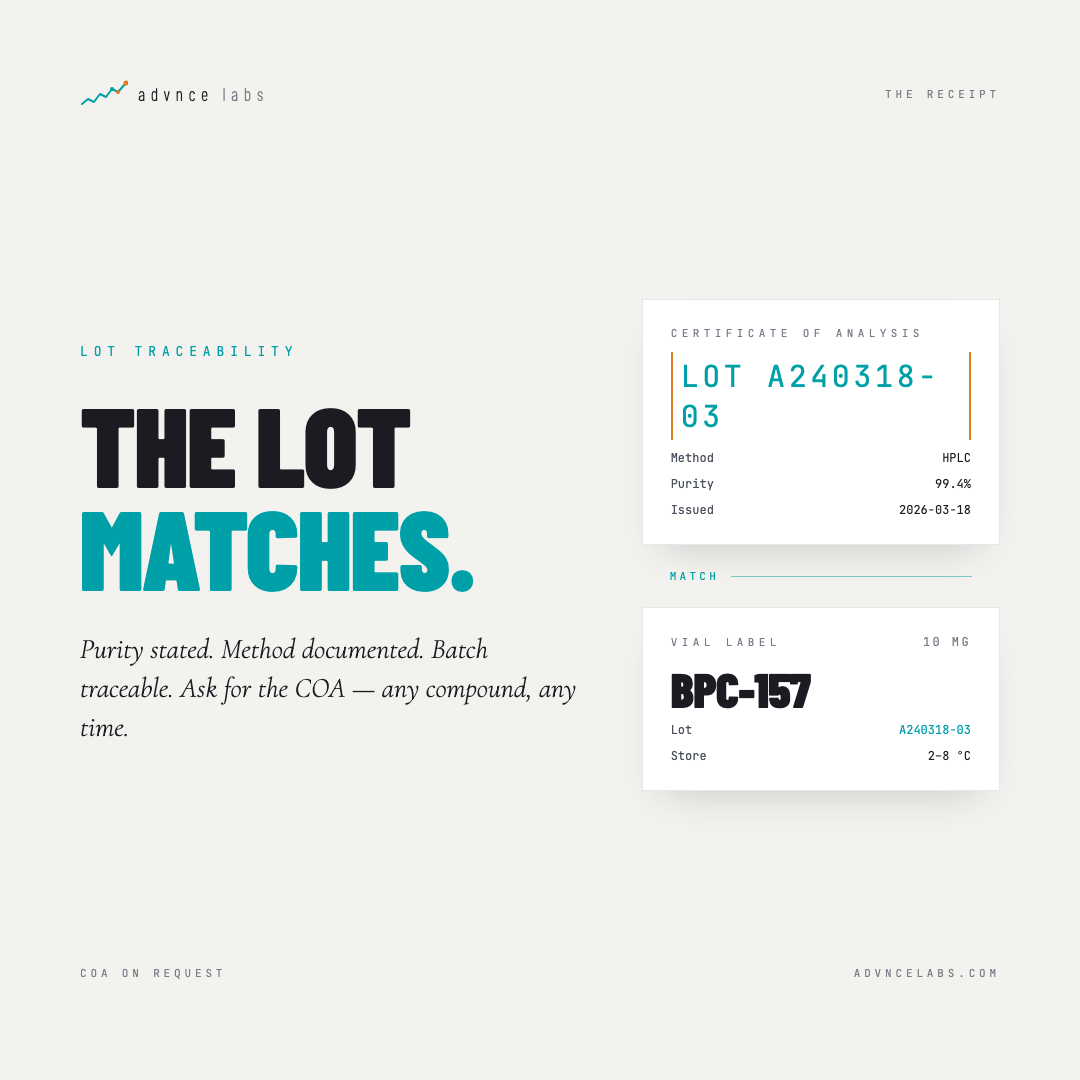
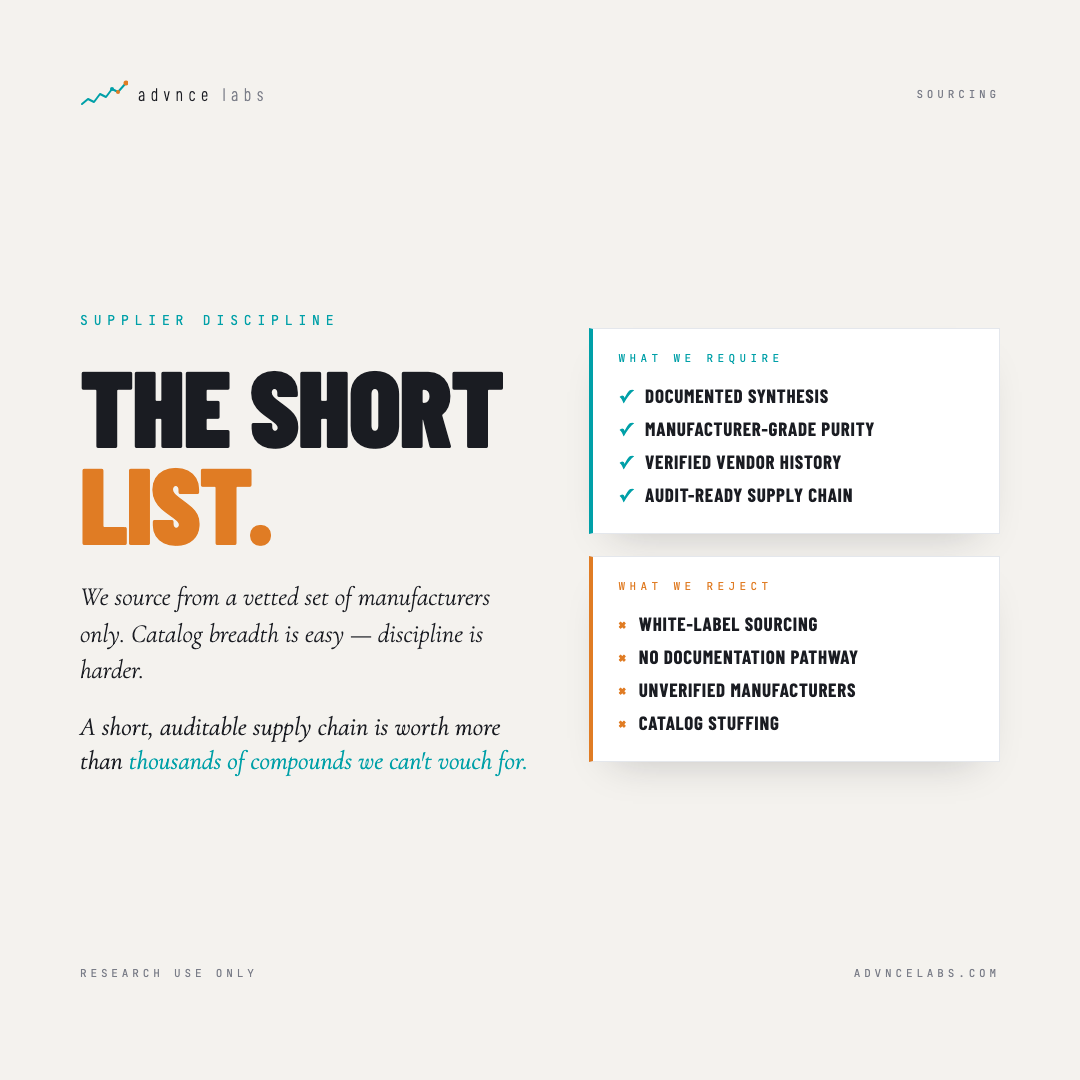
receipt_card: pivot to sourcing transparency (no fake lot/COA claims)
Old version showed a specific fictional lot (A240318-03) with HPLC purity
99.4% and a "vial label matches COA" pairing — content advnce labs cannot
deliver on (no lot numbers on actual labels). Credibility risk if anyone
asked for that specific lot.

Replaced with "THE SHORT LIST" — supplier-discipline framing. Two cards:
"What we require" (cyan, 4 checkmarks) and "What we reject" (amber, 4 ×).
No specific lot numbers, no specific purity %, no claims that don't match
what's actually shipped. RUO disclaimer remains.

Caption rewritten to match — sourcing philosophy, not fake lot match.

diff --git a/templates/social/receipt_card.html b/templates/social/receipt_card.html
@@ -3,7 +3,7 @@
 <head>
 <meta charset="UTF-8">
 <meta name="viewport" content="width=1080">
-<title>The Receipt — advnce labs</title>
+<title>Sourcing — advnce labs</title>
 <link rel="preconnect" href="https://fonts.googleapis.com">
 <link href="https://fonts.googleapis.com/css2?family=Barlow+Condensed:wght@300;400;700;900&family=Cormorant+Garamond:ital,wght@0,300;0,400;1,300;1,400&family=JetBrains+Mono:wght@400&display=swap" rel="stylesheet">
 <style>
@@ -42,8 +42,8 @@
   .content {
     flex: 1;
     display: grid;
-    grid-template-columns: 1.4fr 1fr;
-    gap: 60px;
+    grid-template-columns: 1.1fr 1fr;
+    gap: 56px;
     align-items: center;
     padding-top: 16px;
   }
@@ -54,116 +54,102 @@
     font-size: 13px; letter-spacing: 0.45em;
     color: #00A0A8;
     text-transform: uppercase;
-    margin-bottom: 32px;
+    margin-bottom: 28px;
   }
   .left .headline {
     font-family: 'Barlow Condensed', sans-serif;
     font-weight: 900;
-    font-size: 112px;
+    font-size: 108px;
     text-transform: uppercase;
     color: #1A1C22;
-    line-height: 0.92;
+    line-height: 0.9;
     letter-spacing: -0.015em;
-    margin-bottom: 32px;
+    margin-bottom: 28px;
   }
-  .left .headline .match { color: #00A0A8; }
+  .left .headline .accent { color: #E07C24; }
   .left .body {
     font-family: 'Cormorant Garamond', serif;
     font-weight: 300;
     font-style: italic;
-    font-size: 28px;
+    font-size: 26px;
     line-height: 1.4;
     color: #1A1C22;
-    max-width: 540px;
+    max-width: 480px;
+    margin-bottom: 22px;
+  }
+  .left .closer {
+    font-family: 'Cormorant Garamond', serif;
+    font-style: italic;
+    font-weight: 400;
+    font-size: 26px;
+    line-height: 1.3;
+    color: #1A1C22;
+    max-width: 500px;
+  }
+  .left .closer strong {
+    font-style: italic;
+    font-weight: 400;
+    color: #00A0A8;
   }
 
-  /* RIGHT: COA card + Vial card */
+  /* RIGHT: Two cards (Require / Reject) */
   .right {
     display: flex;
     flex-direction: column;
-    gap: 24px;
+    gap: 22px;
   }
   .card {
     background: #ffffff;
     border: 1px solid #E4E7EC;
-    padding: 26px 28px;
+    padding: 22px 26px 22px 26px;
     box-shadow: 0 20px 40px -24px rgba(26,28,34,0.25);
+    position: relative;
+  }
+  .card.require {
+    border-left: 4px solid #00A0A8;
+  }
+  .card.reject {
+    border-left: 4px solid #E07C24;
   }
   .card .label {
     font-family: 'JetBrains Mono', monospace;
     font-size: 11px; letter-spacing: 0.4em;
     color: #7A7D88;
     text-transform: uppercase;
-    margin-bottom: 12px;
+    margin-bottom: 14px;
   }
-  .card .big {
-    font-family: 'JetBrains Mono', monospace;
-    font-size: 30px;
-    letter-spacing: 0.12em;
-    color: #00A0A8;
-    font-weight: 400;
-    word-break: break-all;
-  }
-  .card .row {
+  .card.require .label { color: #00A0A8; }
+  .card.reject .label  { color: #E07C24; }
+  .card .item {
     display: flex;
-    justify-content: space-between;
     align-items: baseline;
-    margin-top: 10px;
-    font-family: 'JetBrains Mono', monospace;
-    font-size: 12px;
-    color: #4A4F5C;
-  }
-  .card .row strong {
+    gap: 12px;
+    padding: 5px 0;
+    font-family: 'Barlow Condensed', sans-serif;
+    font-size: 19px;
+    font-weight: 700;
+    text-transform: uppercase;
+    letter-spacing: 0.04em;
     color: #1A1C22;
-    font-weight: 400;
   }
-
-  .bracket {
-    position: relative;
-    display: inline-block;
-    padding: 4px 10px;
-  }
-  .bracket::before, .bracket::after {
-    content: '';
-    position: absolute;
-    top: 0; bottom: 0;
-    width: 2px; background: #E07C24;
-  }
-  .bracket::before { left: 0; }
-  .bracket::after  { right: 0; }
-
-  .vial-card .label-row {
-    display: flex; justify-content: space-between; align-items: center;
-    margin-bottom: 18px;
-  }
-  .vial-card .compound {
+  .card .mark {
+    flex: 0 0 auto;
     font-family: 'Barlow Condensed', sans-serif;
     font-weight: 900;
-    font-size: 48px;
-    text-transform: uppercase;
-    color: #1A1C22;
-    letter-spacing: -0.01em;
-    line-height: 0.9;
+    font-size: 18px;
+    line-height: 1;
   }
-  .vial-card .size {
-    font-family: 'JetBrains Mono', monospace;
-    font-size: 12px;
-    color: #7A7D88;
-    letter-spacing: 0.2em;
-    text-transform: uppercase;
-  }
-
-  .connector {
-    display: flex; align-items: center; gap: 12px;
-    padding: 0 28px;
-    font-family: 'JetBrains Mono', monospace;
-    font-size: 11px;
-    color: #00A0A8;
-    letter-spacing: 0.3em;
-    text-transform: uppercase;
-  }
-  .connector .line {
-    flex: 1; height: 1px; background: #00A0A8; opacity: 0.5;
+  .card.require .mark { color: #00A0A8; }
+  .card.reject  .mark { color: #E07C24; }
+  .card .gloss {
+    font-family: 'Cormorant Garamond', serif;
+    font-style: italic;
+    font-weight: 400;
+    font-size: 17px;
+    color: #4A4F5C;
+    text-transform: none;
+    letter-spacing: 0;
+    margin-left: 6px;
   }
 
   .footer-bar {
@@ -182,44 +168,38 @@
         <svg viewBox="0 0 48 28" fill="none"><path d="M2 24L8 19L14 22L20 14L26 17L32 9L38 12L46 3" stroke="#00A0A8" stroke-width="2" stroke-linejoin="round" stroke-linecap="round"/><circle cx="32" cy="9" r="2" fill="#00A0A8"/><circle cx="38" cy="12" r="2" fill="#E07C24"/><circle cx="46" cy="3" r="2.5" fill="#E07C24"/></svg>
         <span class="wordmark">advnce <em>labs</em></span>
       </div>
-      <span>THE RECEIPT</span>
+      <span>SOURCING</span>
     </div>
 
     <div class="content">
       <div class="left">
-        <div class="eyebrow">LOT TRACEABILITY</div>
-        <div class="headline">The lot <span class="match">matches.</span></div>
-        <div class="body">Purity stated. Method documented. Batch traceable. Ask for the COA &mdash; any compound, any time.</div>
+        <div class="eyebrow">SUPPLIER DISCIPLINE</div>
+        <div class="headline">The short<br/><span class="accent">list.</span></div>
+        <div class="body">We source from a vetted set of manufacturers only. Catalog breadth is easy &mdash; discipline is harder.</div>
+        <div class="closer">A short, auditable supply chain is worth more than <strong>thousands of compounds we can't vouch for.</strong></div>
       </div>
 
       <div class="right">
-        <div class="card">
-          <div class="label">CERTIFICATE OF ANALYSIS</div>
-          <div class="bracket"><div class="big">LOT A240318-03</div></div>
-          <div class="row"><span>Method</span><strong>HPLC</strong></div>
-          <div class="row"><span>Purity</span><strong>99.4%</strong></div>
-          <div class="row"><span>Issued</span><strong>2026-03-18</strong></div>
+        <div class="card require">
+          <div class="label">What we require</div>
+          <div class="item"><span class="mark">✓</span><span>Documented synthesis</span></div>
+          <div class="item"><span class="mark">✓</span><span>Manufacturer-grade purity</span></div>
+          <div class="item"><span class="mark">✓</span><span>Verified vendor history</span></div>
+          <div class="item"><span class="mark">✓</span><span>Audit-ready supply chain</span></div>
         </div>
 
-        <div class="connector">
-          <span>MATCH</span>
-          <div class="line"></div>
-        </div>
-
-        <div class="card vial-card">
-          <div class="label-row">
-            <div class="label" style="margin-bottom:0">VIAL LABEL</div>
-            <div class="size">10 mg</div>
-          </div>
-          <div class="compound">BPC-157</div>
-          <div class="row"><span>Lot</span><strong style="color:#00A0A8">A240318-03</strong></div>
-          <div class="row"><span>Store</span><strong>2–8 &deg;C</strong></div>
+        <div class="card reject">
+          <div class="label">What we reject</div>
+          <div class="item"><span class="mark">×</span><span>White-label sourcing</span></div>
+          <div class="item"><span class="mark">×</span><span>No documentation pathway</span></div>
+          <div class="item"><span class="mark">×</span><span>Unverified manufacturers</span></div>
+          <div class="item"><span class="mark">×</span><span>Catalog stuffing</span></div>
         </div>
       </div>
     </div>
 
     <div class="footer-bar">
-      <span>COA ON REQUEST</span>
+      <span>RESEARCH USE ONLY</span>
       <span>advncelabs.com</span>
     </div>
   </div>
